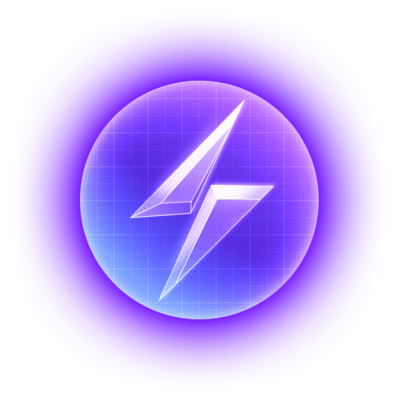
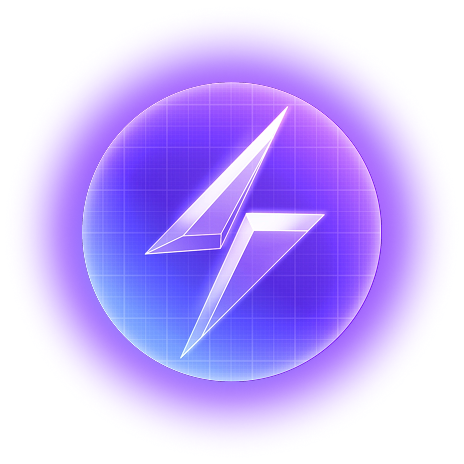
Update README.md with header image and badges

Changed region(s): [[0.09, 0.15, 0.9, 0.84], [0.36, 0.69, 0.39, 0.72]]

diff --git a/README.md b/README.md
@@ -1,4 +1,14 @@
+![header.png](https://raw.githubusercontent.com/EggyStudio/UltralightNet.Bundle/refs/heads/main/.github/assets/header.png)
+
 # UltralightNet.Bundle
+
+[![GitHub Packages](https://img.shields.io/badge/GitHub%20Packages-UltralightNet.Bundle-2dba4e?logo=github)](https://github.com/EggyStudio/UltralightNet.Bundle/packages)
+[![publish-package](https://github.com/EggyStudio/UltralightNet.Bundle/actions/workflows/publish-package.yml/badge.svg?branch=main)](https://github.com/EggyStudio/UltralightNet.Bundle/actions/workflows/publish-package.yml)
+[![Release](https://img.shields.io/github/v/release/EggyStudio/UltralightNet.Bundle?include_prereleases&sort=semver&logo=github&label=Release)](https://github.com/EggyStudio/UltralightNet.Bundle/releases)
+[![License: MPL-2.0](https://img.shields.io/badge/License-MPL--2.0-brightgreen.svg)](LICENSE)
+[![.NET 10](https://img.shields.io/badge/.NET-10.0-512BD4?logo=dotnet)](https://dotnet.microsoft.com/)
+[![Platform](https://img.shields.io/badge/platform-win--x64%20%7C%20linux--x64%20%7C%20osx--x64%20%7C%20osx--arm64-informational)](#supported-runtimes)
+[![Stars](https://img.shields.io/github/stars/EggyStudio/UltralightNet.Bundle?style=social)](https://github.com/EggyStudio/UltralightNet.Bundle/stargazers)
 
 A single-package .NET binding for the [Ultralight](https://ultralig.ht/) HTML rendering engine.
 
